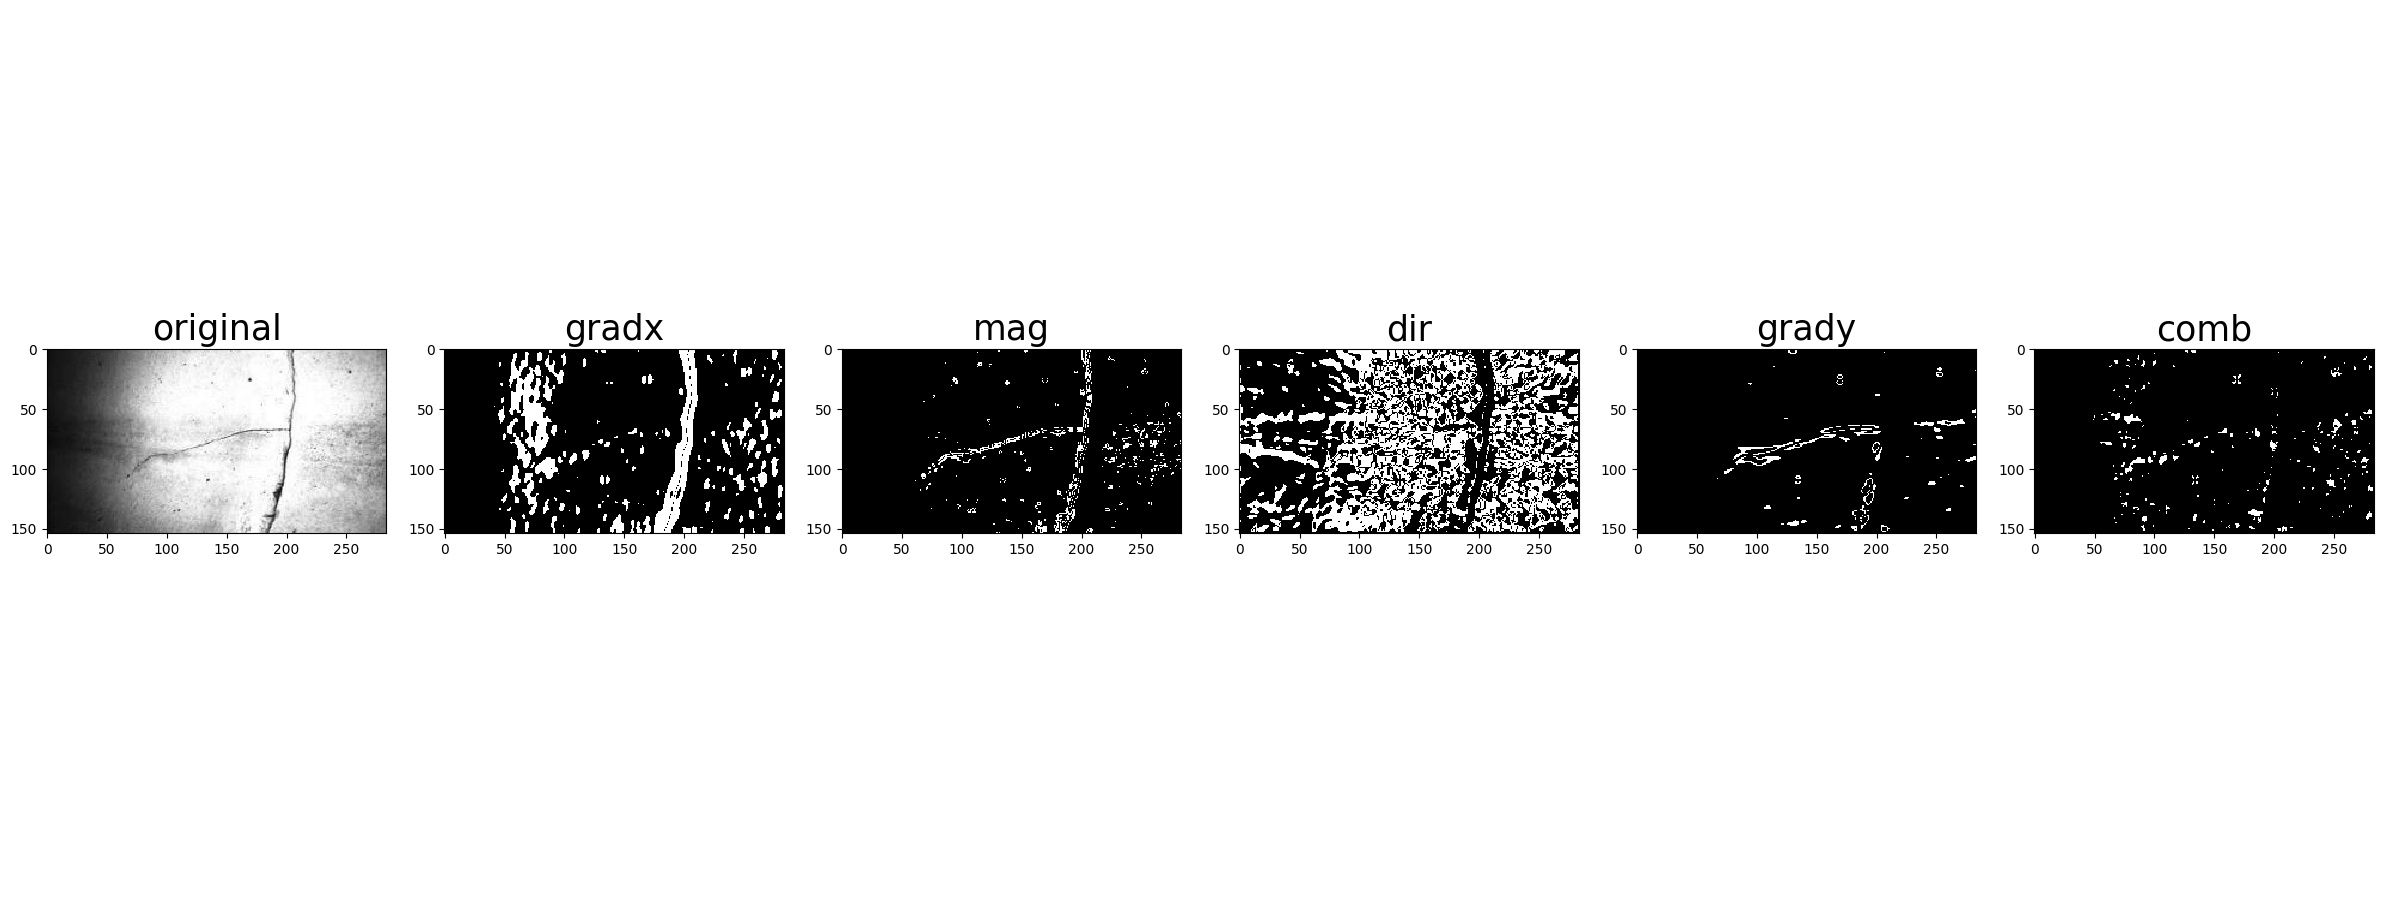
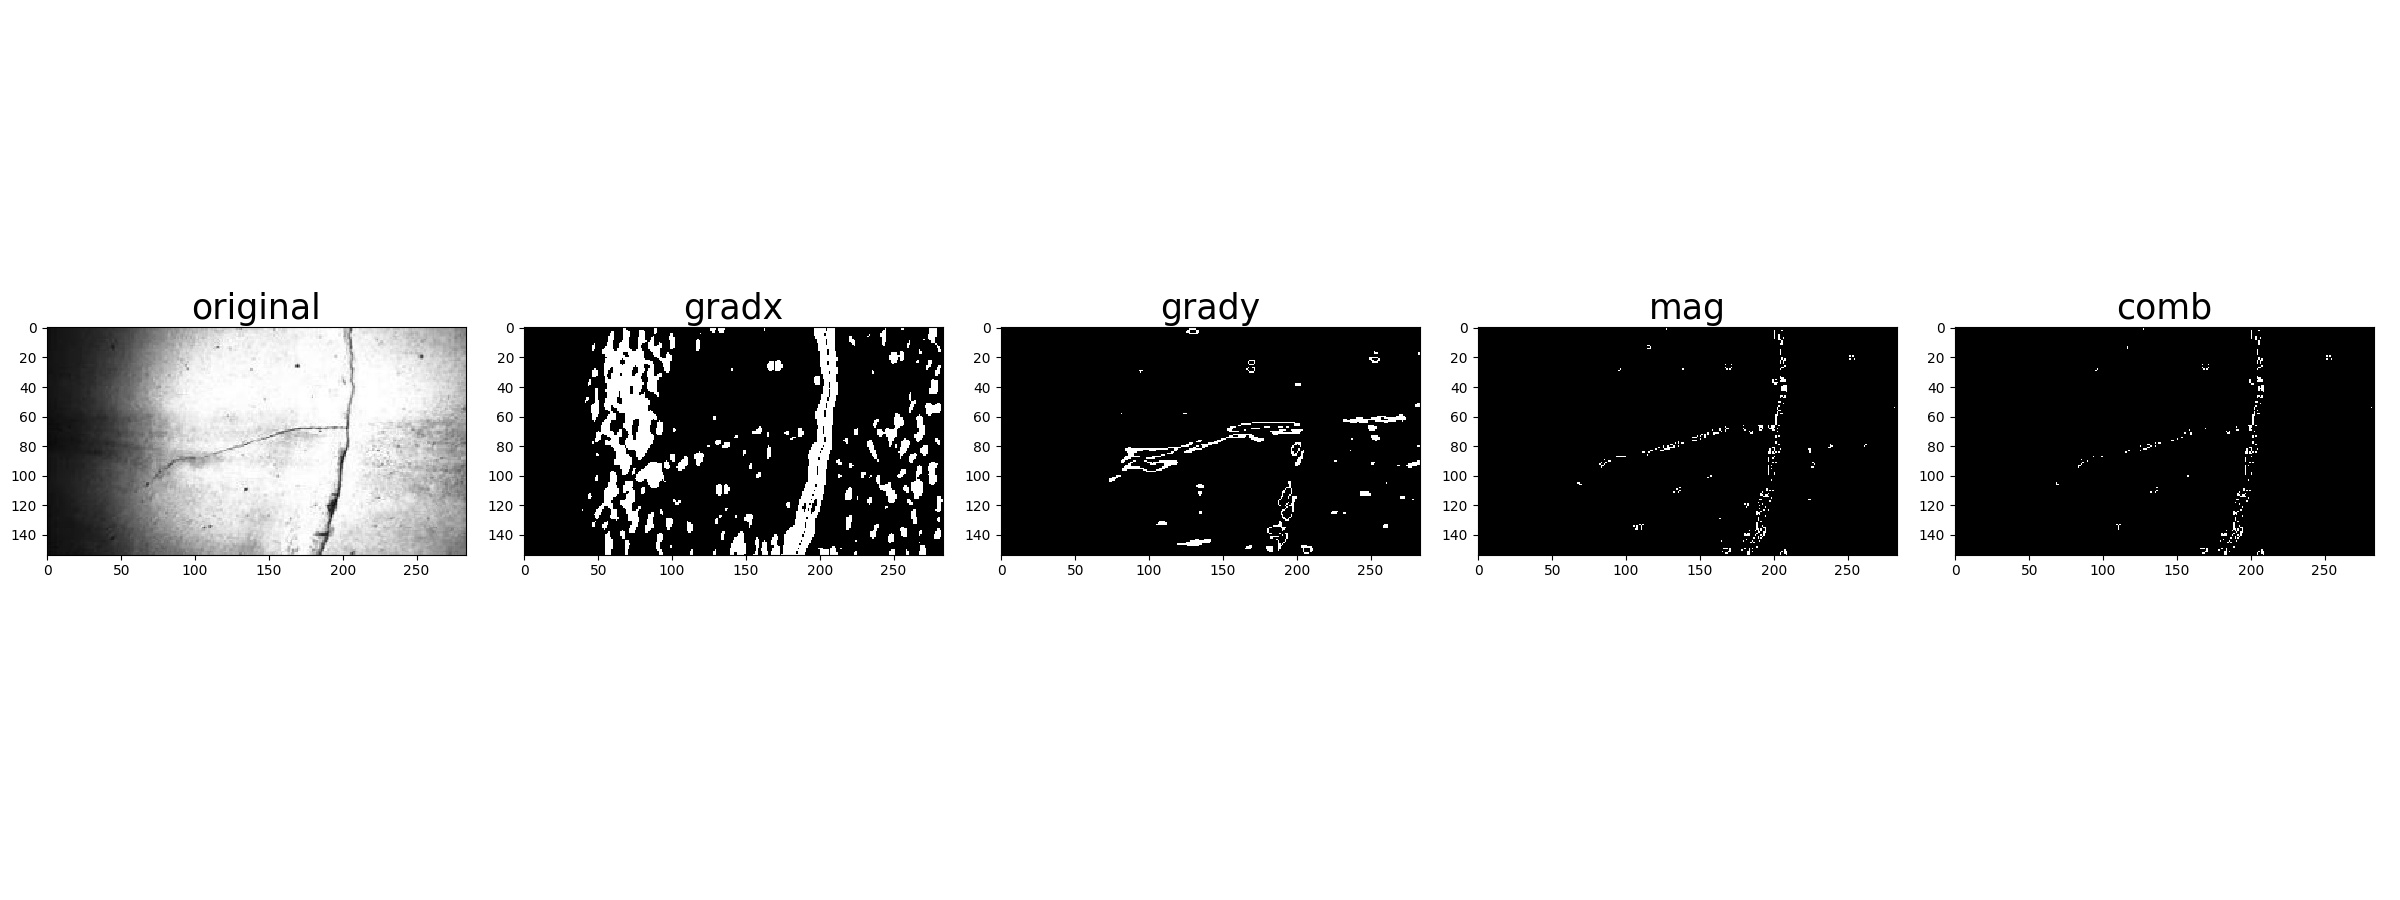
Crack detection code added

Changed region(s): [[0.0, 0.3111, 1.0, 0.6222]]

diff --git a/Crack_Detection/gradient_detection.py b/Crack_Detection/gradient_detection.py
@@ -96,14 +96,16 @@ def test_directions():
         plt.subplots_adjust(left=0., right=1, top=0.9, bottom=0.)
         plt.show()
 
-def get_combinations():
+def apply_sobel_operations(show_plots=False):
 
     # Choose a Sobel kernel size
-    ksize = 15  # Choose a larger odd number to smooth gradient measurements
+    ksize = 17  # Choose a larger odd number to smooth gradient measurements
     x_gradient_threshold = (20, 200)
     y_gradient_threshold = (60, 100)
     direction_threshold = (0.6, 1.4)
-    magnitude_threshold = (40, 100)
+    magnitude_threshold = (70, 100)
+
+    output_images=[]
 
     images = glob.glob('test_images/*.jpg')
     for fname in images:
@@ -117,62 +119,84 @@ def get_combinations():
         dir_binary = dir_threshold(image, sobel_kernel=ksize, thresh=direction_threshold)
 
         combined = np.zeros_like(dir_binary)
-        combined[(gradx == 1) & (dir_binary == 1)] = 1
+        #combined[(gradx == 1) & (dir_binary == 1)] = 1
         #combined[((gradx == 1) ) | ((dir_binary == 1) & (mag_binary==1))] = 1
-        #combined[((gradx == 1) & (grady==1)) | ((dir_binary == 1) & (mag_binary == 1))] = 1
+        #combined[((gradx == 1) | (grady==1)) | ((dir_binary == 1) & (mag_binary == 1))] = 1
+        combined[((gradx == 1) | (grady == 1))  & (mag_binary == 1)] = 1
 
-        # plot
-        f, (ax1, ax2, ax3, ax4, ax5 , ax6) = plt.subplots(1, 6, figsize=(24, 9))
-        f.tight_layout()
+        #plot
+        if show_plots == True:
+            f, (ax1, ax2, ax3, ax4, ax5 ) = plt.subplots(1, 5, figsize=(24, 9))
+            f.tight_layout()
 
-        ax1.imshow(image)
-        ax1.set_title('original', fontsize=25)
+            ax1.imshow(image)
+            ax1.set_title('original', fontsize=25)
 
-        ax2.imshow(gradx, cmap='gray')
-        ax2.set_title('gradx', fontsize=25)
+            ax2.imshow(gradx, cmap='gray')
+            ax2.set_title('gradx', fontsize=25)
 
-        ax3.imshow(mag_binary, cmap='gray')
-        ax3.set_title('mag', fontsize=25)
+            ax3.imshow(grady, cmap='gray')
+            ax3.set_title('grady', fontsize=25)
 
-        ax4.imshow(dir_binary, cmap='gray')
-        ax4.set_title('dir', fontsize=25)
+            ax4.imshow(mag_binary, cmap='gray')
+            ax4.set_title('mag', fontsize=25)
 
-        ax5.imshow(grady, cmap='gray')
-        ax5.set_title('grady', fontsize=25)
+            #ax4.imshow(dir_binary, cmap='gray')
+            #ax4.set_title('dir', fontsize=25)
 
-        ax6.imshow(combined, cmap='gray')
-        ax6.set_title('comb', fontsize=25)
+            ax5.imshow(combined, cmap='gray')
+            ax5.set_title('comb', fontsize=25)
 
-        plt.savefig('output_images/gradient_analysis/'+fname.split('\\')[1])
+            output_images.append(combined)
+
+            plt.savefig('output_images/gradient_analysis/'+fname.split('\\')[1])
         #plt.subplots_adjust(left=0., right=1, top=0.9, bottom=0.)
         plt.show()
 
-def get_grad_combined(image):
-    # Choose a Sobel kernel size
-    ksize = 15  # Choose a larger odd number to smooth gradient measurements
-    #gradient_threshold = (10, 100)
-    #direction_threshold = (0.65, 1.05)
-    #magnitude_threshold = (40, 100)
+    return output_images
 
-    x_gradient_threshold = (20, 200)
-    y_gradient_threshold = (60, 100)
-    direction_threshold = (0.5, 1.5)
-    magnitude_threshold = (40, 100)
+def apply_morphological_ops(sobel_output,kernel):
 
-    # Apply each of the thresholding functions
-    gradx = abs_sobel_thresh(image, orient='x', sobel_kernel=ksize, thresh_min=x_gradient_threshold[0],
-                             thresh_max=x_gradient_threshold[1])
-    grady = abs_sobel_thresh(image, orient='y', sobel_kernel=ksize, thresh_min=y_gradient_threshold[0],
-                             thresh_max=y_gradient_threshold[1])
+    #kernel = np.ones((5, 5), np.uint8)
+    #erosion = cv2.erode(img, kernel, iterations=1)
+    kernel2= np.ones((2,2), np.uint8)
 
-    mag_binary = mag_thresh(image, sobel_kernel=ksize, mag_thresh=magnitude_threshold)
-    dir_binary = dir_threshold(image, sobel_kernel=ksize, thresh=direction_threshold)
+    images = glob.glob('test_images/*.jpg')
+    orignal_images=[]
+    for fname in images:
+        image = mpimg.imread(fname)
+        orignal_images.append(image)
 
-    combined = np.zeros_like(dir_binary)
-    combined[ (gradx == 1) & (dir_binary == 1) ] = 1
-    #combined[((gradx == 1) & (grady == 1)) | ((dir_binary == 1) & (mag_binary == 1))] = 1
+    x=0
+    for image in sobel_output:
+        dilate = cv2.dilate(image,kernel,iterations = 1)
+        erosion = cv2.erode(dilate, kernel2, iterations=4)
+        closing = cv2.morphologyEx(image, cv2.MORPH_CLOSE, kernel)
+        opening = cv2.morphologyEx(image, cv2.MORPH_OPEN, kernel)
+        f, (ax1, ax2,ax3,ax4,ax5,ax6) = plt.subplots(1, 6, figsize=(24, 7))
+        f.tight_layout()
 
-    return combined
+        ax1.imshow(orignal_images[x])
+        ax1.set_title('original', fontsize=25)
+
+        ax2.imshow(image, cmap='gray')
+        ax2.set_title('Sobel_output', fontsize=25)
+
+        ax3.imshow(erosion, cmap='gray')
+        ax3.set_title('erosion', fontsize=25)
+
+        ax4.imshow(dilate, cmap='gray')
+        ax4.set_title('dilate', fontsize=25)
+
+        ax5.imshow(closing, cmap='gray')
+        ax5.set_title('closing', fontsize=25)
+
+        ax6.imshow(dilate, cmap='gray')
+        ax6.set_title('final', fontsize=25)
+
+        x+=1
+
+        plt.show()
 
 #test_gradients()
 #test_directions()

diff --git a/Crack_Detection/main.py b/Crack_Detection/main.py
@@ -1,0 +1,18 @@
+import numpy as np
+import matplotlib.pyplot as plt
+import cv2
+from Crack_Detection import gradient_detection as gd
+import matplotlib.image as mpimg
+
+# kernel = np.ones((3, 3), np.uint8)
+kernel = cv2.getStructuringElement(cv2.MORPH_RECT,(3,3))
+
+# img=mpimg.imread("testimg.jpg")
+# opening = cv2.morphologyEx(img, cv2.MORPH_OPEN, kernel)
+# plt.imshow(opening)
+# plt.show()
+
+sobel_output = gd.apply_sobel_operations(show_plots=True)
+morph_output = gd.apply_morphological_ops(sobel_output,kernel)
+
+
